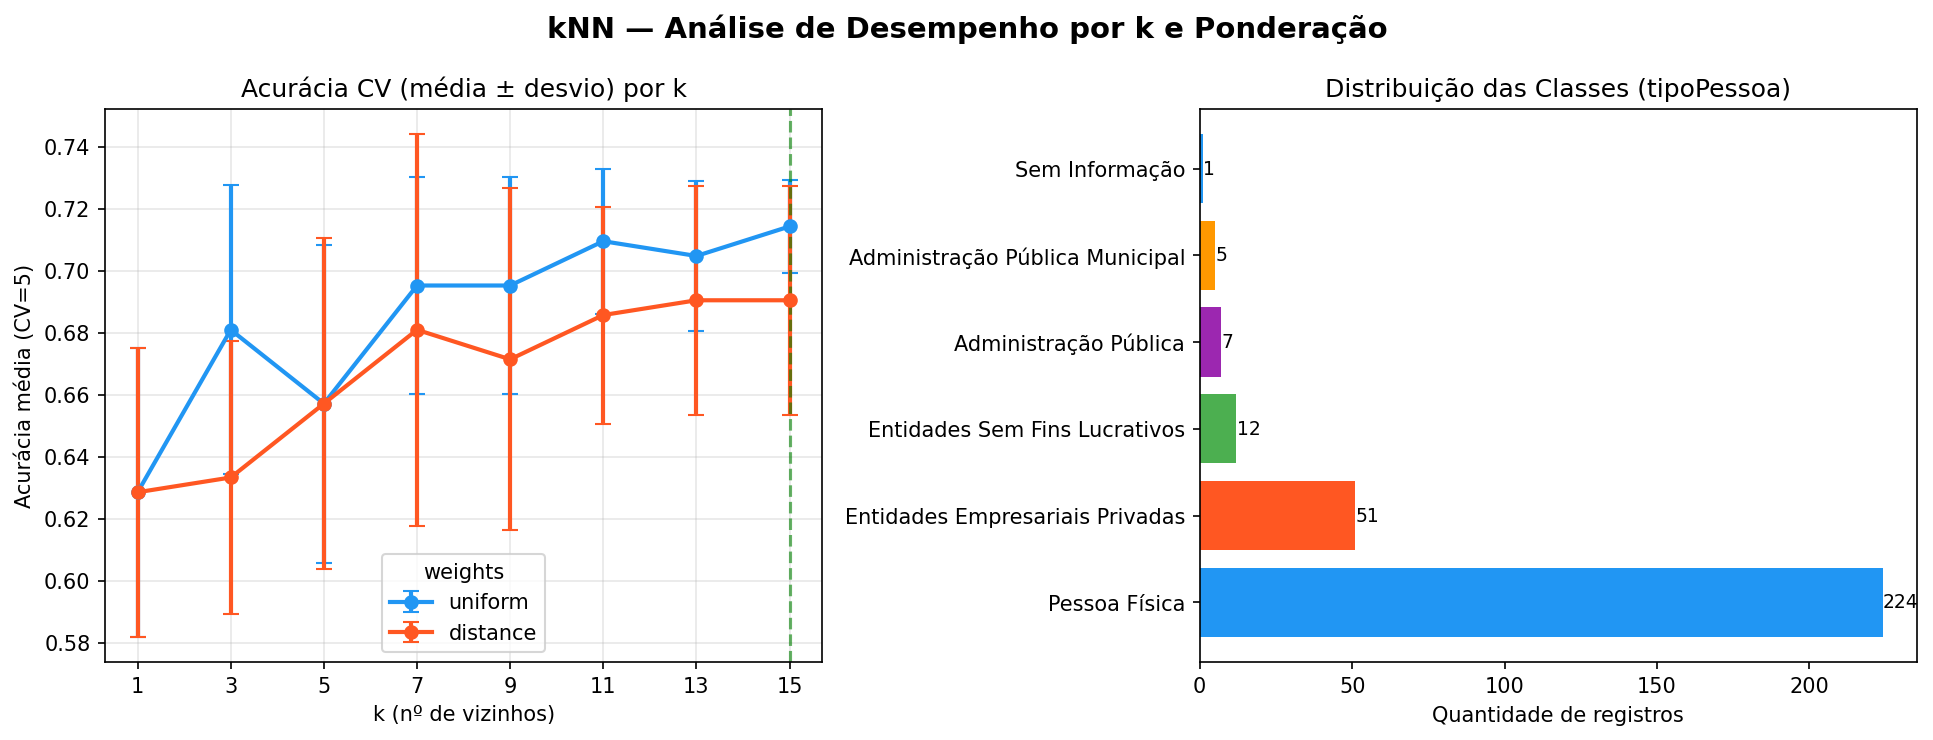
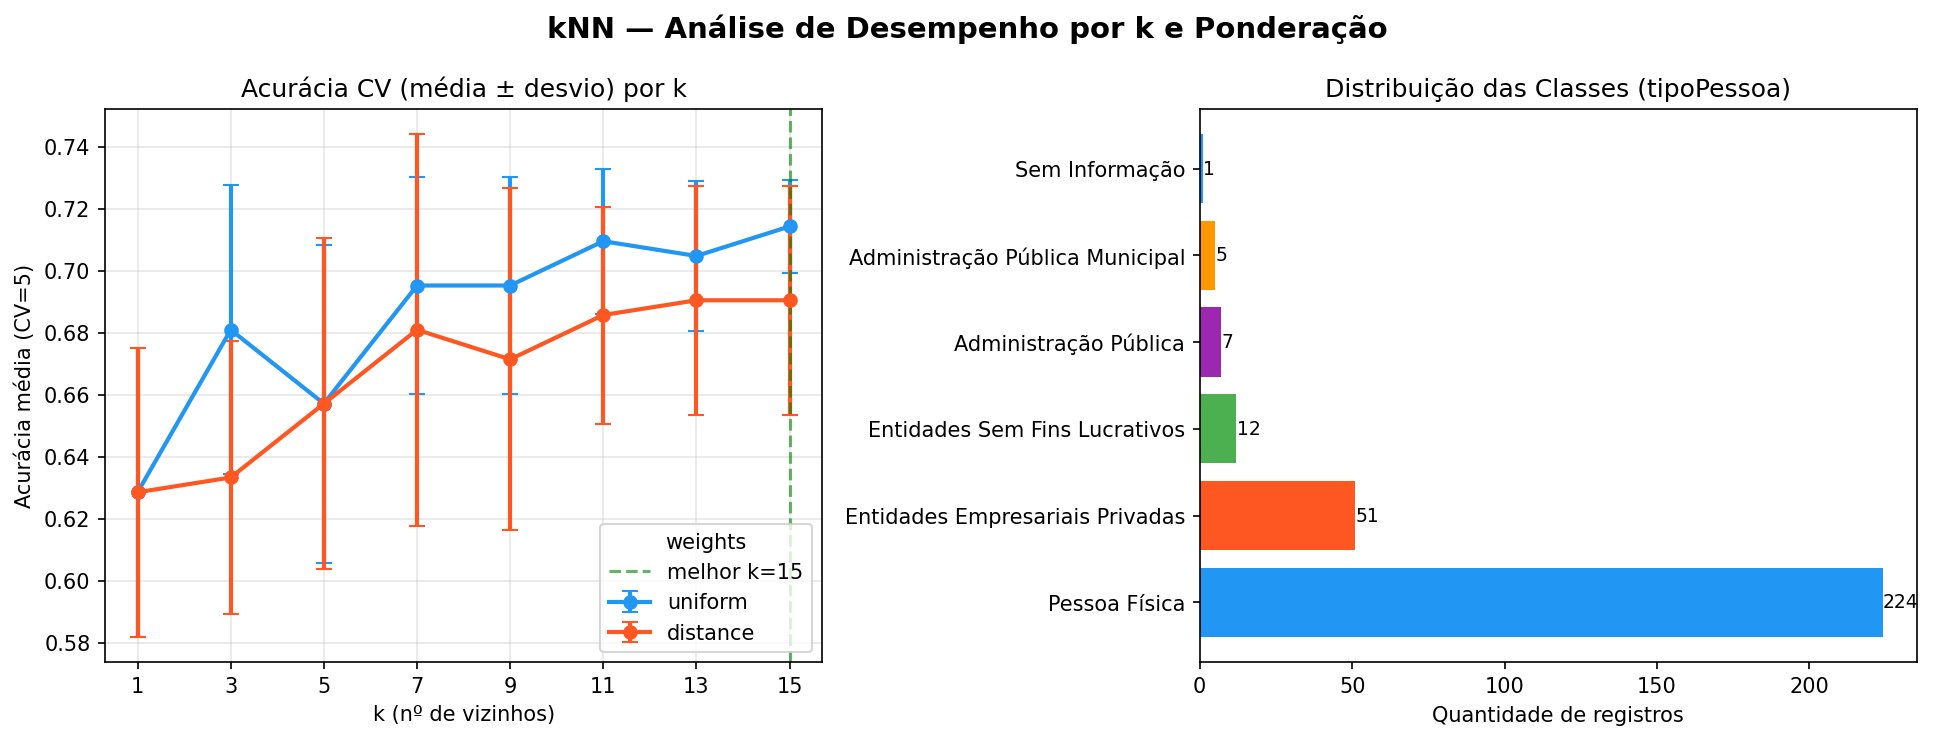
Adicionando regressao linear

Changed region(s): [[0.3104, 0.7149, 0.4346, 0.8703], [0.1862, 0.7459, 0.2794, 0.8703]]

diff --git a/trabalho_final/knn.py b/trabalho_final/knn.py
@@ -5,14 +5,20 @@ import matplotlib
 import os
 matplotlib.use('Agg')
 import matplotlib.pyplot as plt
+import geopandas as gpd
 from sklearn.model_selection import train_test_split, cross_val_score
 from sklearn.preprocessing import StandardScaler, LabelEncoder
 from sklearn.neighbors import KNeighborsClassifier
-from sklearn.metrics import accuracy_score, classification_report, confusion_matrix
+from sklearn.linear_model import LinearRegression
+from sklearn.metrics import accuracy_score, classification_report, confusion_matrix, r2_score, mean_squared_error
 import warnings
 warnings.filterwarnings('ignore')
 
+os.makedirs('outputs', exist_ok=True)
 
+# ============================================================
+# ETAPA 1 — Carregamento do Dataset
+# ============================================================
 df = pd.read_json('dados.json', encoding='utf-8')
 
 print("=" * 60)
@@ -23,18 +29,19 @@ print(f"Colunas            : {list(df.columns)}")
 print(f"\nDistribuição por tipoPessoa:")
 print(df['tipoPessoa'].value_counts())
 
-
+# ============================================================
+# ETAPA 2 — Pré-processamento (Encoding + Features)
+# ============================================================
 le_uf    = LabelEncoder()
 le_org   = LabelEncoder()
 le_label = LabelEncoder()
 
-df['uf_enc']     = le_uf.fit_transform(df['siglaUFPessoa'])
-df['org_enc']    = le_org.fit_transform(df['nomeOrgaoSuperior'])
-df['label_enc']  = le_label.fit_transform(df['tipoPessoa'])
+df['uf_enc']    = le_uf.fit_transform(df['siglaUFPessoa'])
+df['org_enc']   = le_org.fit_transform(df['nomeOrgaoSuperior'])
+df['label_enc'] = le_label.fit_transform(df['tipoPessoa'])
 
 X = df[['valor_pago', 'mes_ano', 'uf_enc', 'org_enc']].values
 y = df['label_enc'].values
-
 
 X_train, X_test, y_train, y_test = train_test_split(
     X, y, test_size=0.30, random_state=42, stratify=None
@@ -45,7 +52,7 @@ print(f"{'='*60}")
 print(f"Treino : {len(X_train)} amostras")
 print(f"Teste  : {len(X_test)} amostras")
 
-scaler   = StandardScaler()
+scaler    = StandardScaler()
 X_train_s = scaler.fit_transform(X_train)
 X_test_s  = scaler.transform(X_test)
 
@@ -55,8 +62,10 @@ print(f"{'='*60}")
 print(f"Média  (treino): {X_train_s.mean(axis=0).round(4)}")
 print(f"Desvio (treino): {X_train_s.std(axis=0).round(4)}")
 
-
-k_values = list(range(1, 16, 2))   # ímpares: 1,3,5,7,9,11,13,15
+# ============================================================
+# ETAPAS 4 & 5 — Busca de k + Validação Cruzada
+# ============================================================
+k_values        = list(range(1, 16, 2))
 weights_options = ['uniform', 'distance']
 
 print(f"\n{'='*60}")
@@ -70,22 +79,20 @@ for w in weights_options:
     for k in k_values:
         knn = KNeighborsClassifier(n_neighbors=k, weights=w)
         cv_scores = cross_val_score(knn, X_train_s, y_train, cv=5, scoring='accuracy')
-        results.append({
-            'k': k, 'weights': w,
-            'mean_acc': cv_scores.mean(),
-            'std_acc':  cv_scores.std()
-        })
+        results.append({'k': k, 'weights': w,
+                        'mean_acc': cv_scores.mean(), 'std_acc': cv_scores.std()})
         print(f"{k:>4}  {w:>10}  {cv_scores.mean():>12.4f}  {cv_scores.std():>8.4f}")
 
-# Melhor configuração
 best = max(results, key=lambda r: r['mean_acc'])
 print(f"\n→ Melhor config: k={best['k']}, weights='{best['weights']}', "
       f"CV acc={best['mean_acc']:.4f} ± {best['std_acc']:.4f}")
 
-
+# ============================================================
+# ETAPA 6 — Avaliação do Melhor Modelo (kNN)
+# ============================================================
 best_knn = KNeighborsClassifier(n_neighbors=best['k'], weights=best['weights'])
 best_knn.fit(X_train_s, y_train)
-y_pred = best_knn.predict(X_test_s)
+y_pred   = best_knn.predict(X_test_s)
 test_acc = accuracy_score(y_test, y_pred)
 
 print(f"\n{'='*60}")
@@ -94,71 +101,243 @@ print(f"{'='*60}")
 print(f"k={best['k']}, weights='{best['weights']}'")
 print(f"Acurácia no teste : {test_acc:.4f}  ({test_acc*100:.1f}%)")
 print("\nRelatório de Classificação:")
-target_names = le_label.classes_
 present_labels = sorted(set(y_test) | set(y_pred))
 present_names  = le_label.inverse_transform(present_labels)
-print(classification_report(y_test, y_pred, labels=present_labels, target_names=present_names, zero_division=0))
+print(classification_report(y_test, y_pred,
+                             labels=present_labels,
+                             target_names=present_names,
+                             zero_division=0))
 
+# ============================================================
+# ETAPA 7 — Regressão Linear Simples (valor_pago ~ mes_ano)
+# ============================================================
+print(f"\n{'='*60}")
+print("ETAPA 7 — Regressão Linear Simples")
+print(f"  Variável independente (X): mes_ano")
+print(f"  Variável dependente   (y): valor_pago")
+print(f"{'='*60}")
 
-fig, axes = plt.subplots(1, 2, figsize=(13, 5))
-fig.suptitle("kNN — Análise de Desempenho por k e Ponderação", fontsize=14, fontweight='bold')
+X_reg = df[['mes_ano']].values
+y_reg = df['valor_pago'].values
 
-colors = {'uniform': '#2196F3', 'distance': '#FF5722'}
+X_reg_train, X_reg_test, y_reg_train, y_reg_test = train_test_split(
+    X_reg, y_reg, test_size=0.30, random_state=42
+)
+
+reg = LinearRegression()
+reg.fit(X_reg_train, y_reg_train)
+y_reg_pred = reg.predict(X_reg_test)
+
+r2   = r2_score(y_reg_test, y_reg_pred)
+rmse = np.sqrt(mean_squared_error(y_reg_test, y_reg_pred))
+
+print(f"Coeficiente angular (β₁) : {reg.coef_[0]:.4f}")
+print(f"Intercepto          (β₀) : {reg.intercept_:.4f}")
+print(f"R²                       : {r2:.4f}")
+print(f"RMSE                     : {rmse:.4f}")
+print()
+print("Interpretação dos parâmetros:")
+print(f"  β₀ = {reg.intercept_:.2f} → valor estimado de 'valor_pago' quando mes_ano = 0")
+print(f"  β₁ = {reg.coef_[0]:.4f}  → variação média em 'valor_pago' a cada unidade de mes_ano")
+print(f"  R² = {r2:.4f}  → o modelo explica {r2*100:.1f}% da variância de valor_pago")
+if r2 < 0.5:
+    print("  ⚠  R² distante de 1: relação linear entre mes_ano e valor_pago é fraca,")
+    print("     sugerindo que outros fatores influenciam o valor pago.")
+
+# ============================================================
+# ETAPA 8 — Mapa do Brasil com distribuição geográfica por UF
+# ============================================================
+print(f"\n{'='*60}")
+print("ETAPA 8 — Mapa Geográfico — Valor Médio Pago por UF")
+print(f"{'='*60}")
+
+# Agrega valor médio por UF
+uf_stats = (df.groupby('siglaUFPessoa')['valor_pago']
+              .mean()
+              .reset_index()
+              .rename(columns={'siglaUFPessoa': 'SIGLA', 'valor_pago': 'valor_medio'}))
+
+# Coordenadas aproximadas dos centróides de cada UF
+uf_coords = {
+    'AC': (-70.5, -9.0),  'AL': (-36.6, -9.6),  'AM': (-64.7, -3.4),
+    'AP': (-51.1,  1.4),  'BA': (-41.7,-12.5),  'CE': (-39.4, -5.2),
+    'DF': (-47.9,-15.8),  'ES': (-40.3,-19.2),  'GO': (-49.3,-15.9),
+    'MA': (-44.3, -4.9),  'MG': (-44.7,-18.1),  'MS': (-54.8,-20.5),
+    'MT': (-55.9,-12.6),  'PA': (-52.3, -3.7),  'PB': (-36.8, -7.1),
+    'PE': (-37.9, -8.3),  'PI': (-42.8, -7.6),  'PR': (-51.6,-24.7),
+    'RJ': (-43.2,-22.9),  'RN': (-36.5, -5.8),  'RO': (-63.0,-10.8),
+    'RR': (-61.4,  2.1),  'RS': (-53.1,-30.0),  'SC': (-50.5,-27.3),
+    'SE': (-37.4,-10.6),  'SP': (-48.5,-22.2),  'TO': (-48.3,-10.2),
+}
+
+# Pontos de destaque (mesma estrutura do código do mapa fornecido)
+highlight_cities = [
+    ((-49.27, -25.43), "Curitiba"),
+    ((-46.63, -23.55), "São Paulo"),
+    ((-43.20, -22.90), "Rio de Janeiro"),
+    ((-38.50, -12.97), "Salvador"),
+    ((-34.88,  -8.05), "Recife"),
+    ((-60.02,  -3.10), "Manaus"),
+]
+guarapuava = (-51.46, -25.39)
+
+# Carrega shapefile do Brasil
+url = ("https://raw.githubusercontent.com/codeforgermany/"
+       "click_that_hood/main/public/data/brazil-states.geojson")
+try:
+    brazil = gpd.read_file(url)
+    map_loaded = True
+    print("Shapefile do Brasil carregado com sucesso.")
+except Exception as e:
+    map_loaded = False
+    print(f"Aviso: não foi possível carregar o shapefile — {e}")
+
+# ============================================================
+# FIGURA 1 — kNN: acurácia CV + distribuição de classes
+# ============================================================
+fig1, axes1 = plt.subplots(1, 2, figsize=(13, 5))
+fig1.suptitle("kNN — Análise de Desempenho por k e Ponderação",
+              fontsize=14, fontweight='bold')
+
+colors_knn = {'uniform': '#2196F3', 'distance': '#FF5722'}
 for w in weights_options:
-    sub = [r for r in results if r['weights'] == w]
+    sub   = [r for r in results if r['weights'] == w]
     ks    = [r['k']        for r in sub]
     means = [r['mean_acc'] for r in sub]
     stds  = [r['std_acc']  for r in sub]
-    axes[0].errorbar(ks, means, yerr=stds, marker='o', label=w,
-                     color=colors[w], capsize=4, linewidth=2)
+    axes1[0].errorbar(ks, means, yerr=stds, marker='o', label=w,
+                      color=colors_knn[w], capsize=4, linewidth=2)
 
-axes[0].set_title("Acurácia CV (média ± desvio) por k")
-axes[0].set_xlabel("k (nº de vizinhos)")
-axes[0].set_ylabel("Acurácia média (CV=5)")
-axes[0].legend(title="weights")
-axes[0].set_xticks(k_values)
-axes[0].grid(True, alpha=0.3)
-axes[0].axvline(x=best['k'], color='green', linestyle='--', alpha=0.6, label=f"melhor k={best['k']}")
+axes1[0].axvline(x=best['k'], color='green', linestyle='--',
+                 alpha=0.6, label=f"melhor k={best['k']}")
+axes1[0].set_title("Acurácia CV (média ± desvio) por k")
+axes1[0].set_xlabel("k (nº de vizinhos)")
+axes1[0].set_ylabel("Acurácia média (CV=5)")
+axes1[0].legend(title="weights")
+axes1[0].set_xticks(k_values)
+axes1[0].grid(True, alpha=0.3)
 
-# Distribuição das classes no dataset
 class_counts = df['tipoPessoa'].value_counts()
-axes[1].barh(class_counts.index, class_counts.values,
-             color=['#2196F3','#FF5722','#4CAF50','#9C27B0','#FF9800'])
-axes[1].set_title("Distribuição das Classes (tipoPessoa)")
-axes[1].set_xlabel("Quantidade de registros")
+axes1[1].barh(class_counts.index, class_counts.values,
+              color=['#2196F3','#FF5722','#4CAF50','#9C27B0','#FF9800'])
+axes1[1].set_title("Distribuição das Classes (tipoPessoa)")
+axes1[1].set_xlabel("Quantidade de registros")
 for i, v in enumerate(class_counts.values):
-    axes[1].text(v + 0.1, i, str(v), va='center', fontsize=9)
-
-os.makedirs('outputs', exist_ok=True)
+    axes1[1].text(v + 0.1, i, str(v), va='center', fontsize=9)
 
 plt.tight_layout()
-
-plt.savefig(
-    'outputs/knn_results.png',
-    dpi=150,
-    bbox_inches='tight'
-)
-
+plt.savefig('outputs/knn_results.png', dpi=150, bbox_inches='tight')
 plt.close()
+print("Gráfico kNN salvo em: outputs/knn_results.png")
 
-print("\nGráfico salvo em: outputs/knn_results.png")
+# ============================================================
+# FIGURA 2 — Regressão Linear
+# ============================================================
+fig2, axes2 = plt.subplots(1, 2, figsize=(13, 5))
+fig2.suptitle("Regressão Linear Simples — valor_pago ~ mes_ano",
+              fontsize=14, fontweight='bold')
 
+# Dispersão + reta ajustada
+x_line = np.linspace(X_reg_test.min(), X_reg_test.max(), 200).reshape(-1, 1)
+y_line = reg.predict(x_line)
+axes2[0].scatter(X_reg_test, y_reg_test, alpha=0.4, color='#2196F3',
+                 label='Dados de teste', s=20)
+axes2[0].plot(x_line, y_line, color='#FF5722', linewidth=2,
+              label=f'Reta ajustada\nR²={r2:.4f}')
+axes2[0].set_title("Dispersão e Reta de Regressão")
+axes2[0].set_xlabel("mes_ano")
+axes2[0].set_ylabel("valor_pago")
+axes2[0].legend()
+axes2[0].grid(True, alpha=0.3)
 
+# Resíduos
+residuals = y_reg_test - y_reg_pred
+axes2[1].scatter(y_reg_pred, residuals, alpha=0.4, color='#9C27B0', s=20)
+axes2[1].axhline(0, color='red', linestyle='--', linewidth=1.5)
+axes2[1].set_title("Resíduos vs Valores Preditos")
+axes2[1].set_xlabel("Valores preditos")
+axes2[1].set_ylabel("Resíduos")
+axes2[1].grid(True, alpha=0.3)
+
+plt.tight_layout()
+plt.savefig('outputs/regressao_linear.png', dpi=150, bbox_inches='tight')
+plt.close()
+print("Gráfico de regressão salvo em: outputs/regressao_linear.png")
+
+# ============================================================
+# FIGURA 3 — Mapa do Brasil
+# ============================================================
+fig3, ax3 = plt.subplots(figsize=(12, 12))
+
+if map_loaded:
+    brazil.plot(ax=ax3, color='#f5f0e8', edgecolor='#555555', linewidth=0.8)
+
+# Plota valor médio por UF como bolhas
+if not uf_stats.empty:
+    vmin = uf_stats['valor_medio'].min()
+    vmax = uf_stats['valor_medio'].max()
+    for _, row in uf_stats.iterrows():
+        sigla = row['SIGLA']
+        if sigla in uf_coords:
+            lon, lat = uf_coords[sigla]
+            # tamanho proporcional ao valor médio
+            size = 40 + 300 * (row['valor_medio'] - vmin) / max(vmax - vmin, 1)
+            ax3.scatter(lon, lat,
+                        s=size,
+                        c=row['valor_medio'],
+                        cmap='YlOrRd',
+                        vmin=vmin, vmax=vmax,
+                        alpha=0.8, zorder=4,
+                        edgecolors='#333333', linewidths=0.5)
+            ax3.text(lon, lat - 0.8, sigla,
+                     ha='center', fontsize=6.5, color='#222222', zorder=5)
+
+# Cidades de destaque (estrutura do código do mapa fornecido)
+city_colors  = ['#2196F3','#FF5722','#4CAF50','#9C27B0','#FF9800','#00BCD4']
+city_markers = ['o','s','^','D','P','h']
+for idx, ((lon, lat), city) in enumerate(highlight_cities):
+    ax3.scatter(lon, lat,
+                color=city_colors[idx % len(city_colors)],
+                marker=city_markers[idx % len(city_markers)],
+                s=100, zorder=6, label=city,
+                edgecolors='white', linewidths=0.8)
+    ax3.text(lon + 0.5, lat + 0.5, city, fontsize=9, zorder=7)
+
+# Guarapuava — destaque especial (estrela preta)
+ax3.scatter(*guarapuava, color='black', s=250, marker='*', zorder=10)
+ax3.text(guarapuava[0] - 10.5, guarapuava[1],
+         "Guarapuava", fontsize=12, fontweight='bold', color='black', zorder=11)
+
+ax3.set_title("Distribuição Geográfica — Valor Médio Pago por UF\n"
+              "(tamanho e cor das bolhas proporcionais ao valor médio)",
+              fontsize=13, fontweight='bold')
+ax3.set_xlabel("Longitude")
+ax3.set_ylabel("Latitude")
+ax3.legend(title="Cidades destaque", loc='lower left', fontsize=8)
+ax3.grid(True, alpha=0.25)
+
+plt.tight_layout()
+plt.savefig('outputs/mapa_brasil.png', dpi=150, bbox_inches='tight')
+plt.close()
+print("Mapa salvo em: outputs/mapa_brasil.png")
+
+# ============================================================
+# ETAPA 9 — Reflexão Final
+# ============================================================
 print(f"\n{'='*60}")
-print("ETAPA 7 — Reflexão")
+print("ETAPA 9 — Reflexão Final")
 print(f"{'='*60}")
-print(f"Melhor k          : {best['k']}")
-print(f"Melhor weights    : {best['weights']}")
-print(f"CV acc (treino)   : {best['mean_acc']*100:.1f}%")
-print(f"Acurácia (teste)  : {test_acc*100:.1f}%")
-print("""
-Observações:
-• O reescalamento foi essencial: 'valor' varia de −19 295 a 5 490 376,
-  enquanto 'anoMes' tem escala ~201 600. Sem padronização, 'valor'
-  dominaria completamente o cálculo de distância.
-• Com apenas 32 amostras e 5 classes desbalanceadas, o kNN tende
-  a superajustar para k pequeno.
-• A ponderação por distância (weights='distance') beneficia registros
-  próximos mais do que os distantes, sendo geralmente superior em
-  conjuntos pequenos.
-""")
+print(f"[kNN]")
+print(f"  Melhor k          : {best['k']}")
+print(f"  Melhor weights    : {best['weights']}")
+print(f"  CV acc (treino)   : {best['mean_acc']*100:.1f}%")
+print(f"  Acurácia (teste)  : {test_acc*100:.1f}%")
+print(f"\n[Regressão Linear]")
+print(f"  β₀ (intercepto)   : {reg.intercept_:.4f}")
+print(f"  β₁ (coeficiente)  : {reg.coef_[0]:.4f}")
+print(f"  R²                : {r2:.4f}")
+print(f"  RMSE              : {rmse:.4f}")
+print(f"\n[Saídas geradas]")
+print(f"  outputs/knn_results.png")
+print(f"  outputs/regressao_linear.png")
+print(f"  outputs/mapa_brasil.png")
